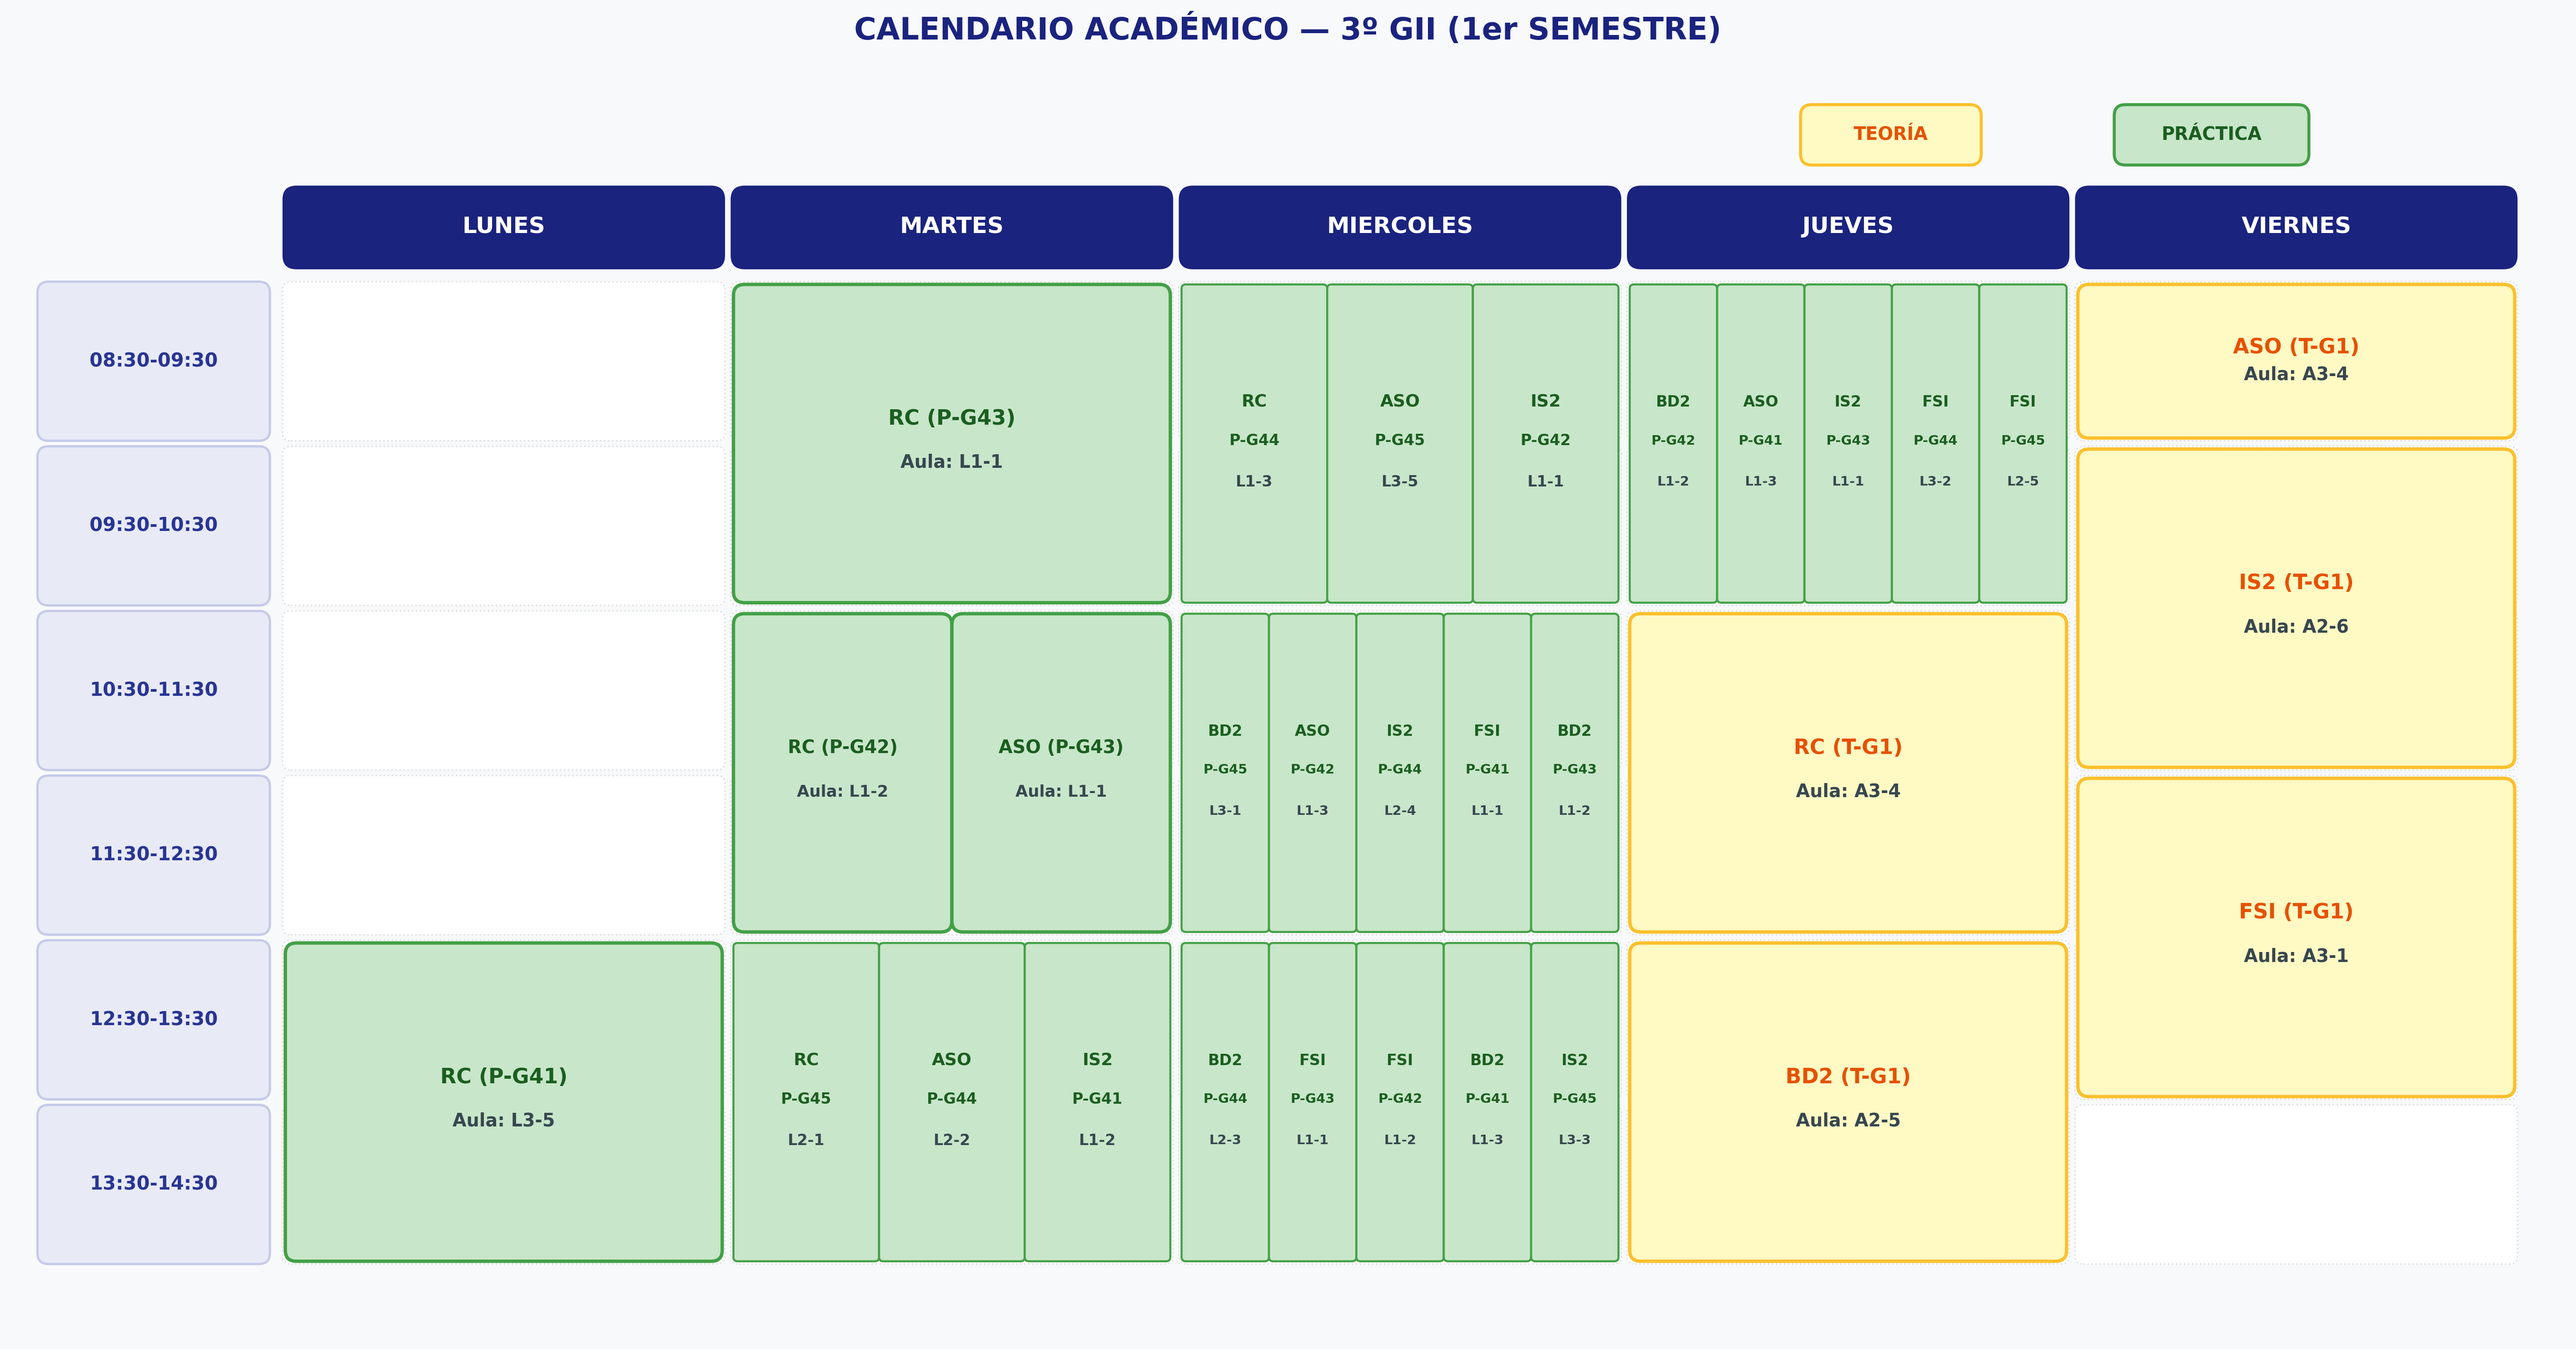
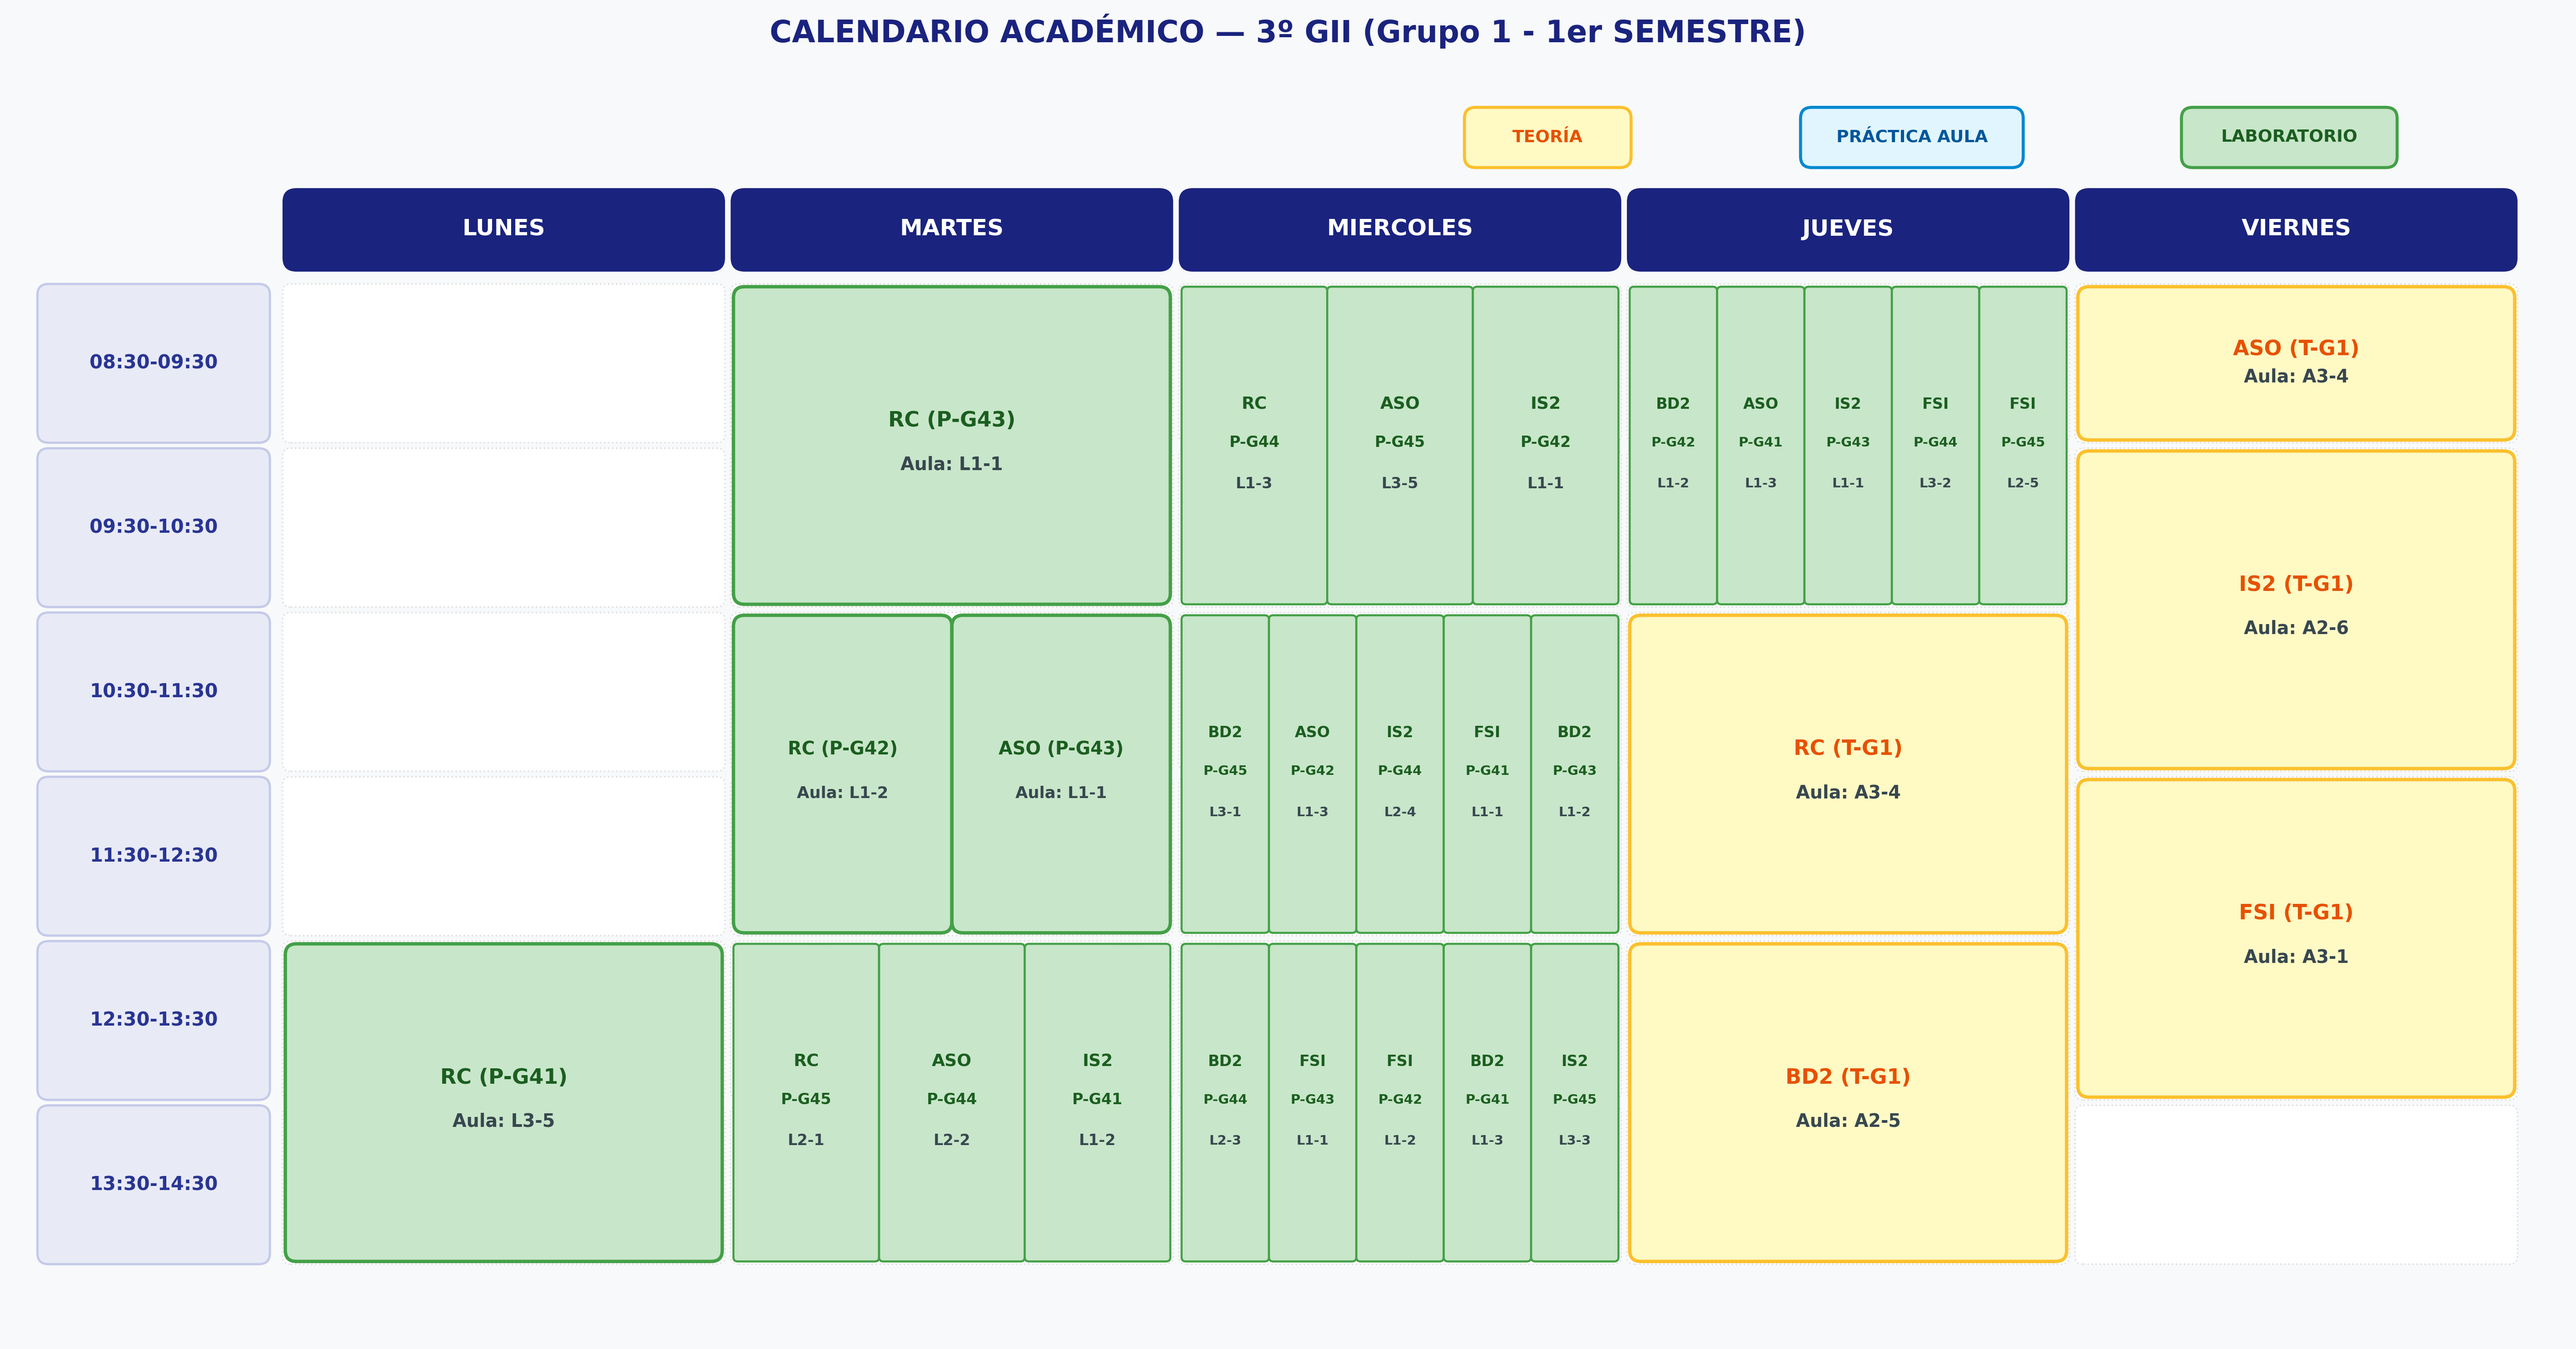
Anadir soporte de curso y grupo_principal con leyenda tricolor (Teoria, Aula, Lab)

diff --git a/src/visualizador.py b/src/visualizador.py
@@ -13,12 +13,17 @@ def exportar_horario_png(df_resultado, ruta_salida="horario_3GII_1er.png", titul
     dias = ["Lunes", "Martes", "Miercoles", "Jueves", "Viernes"]
     horas = ["08:30-09:30", "09:30-10:30", "10:30-11:30", "11:30-12:30", "12:30-13:30", "13:30-14:30"]
 
-    # Diferenciación visual Teoría vs Práctica (estilo oficial EII)
+    # Diferenciación visual: Teoría (Amarillo), Práctica de Aula (Azul), Laboratorio (Verde)
     estilo_tipo = {
         "teoria": {
             "bg": "#FFF9C4",      # Amarillo pastel
             "border": "#FBC02D",  # Dorado
             "text": "#E65100"     # Ámbar / naranja
+        },
+        "problemas": {
+            "bg": "#E1F5FE",      # Azul pastel
+            "border": "#0288D1",  # Azul medio
+            "text": "#01579B"     # Azul marino oscuro
         },
         "practica": {
             "bg": "#C8E6C9",      # Verde pastel
@@ -137,9 +142,16 @@ def exportar_horario_png(df_resultado, ruta_salida="horario_3GII_1er.png", titul
         row_idx = ev["start_idx"]
         duracion = ev["duracion_num"]
         asig = ev["Asignatura"]
-        es_teoria = "teor" in str(ev["Tipo"]).lower()
-        tipo_clave = "teoria" if es_teoria else "practica"
-        tipo_tag = "T" if es_teoria else "P"
+        tipo_str = str(ev.get("Tipo", "")).strip().lower()
+        if "teor" in tipo_str:
+            tipo_clave = "teoria"
+            tipo_tag = "T"
+        elif "prob" in tipo_str or "aula" in tipo_str or "ejer" in tipo_str or "pa" in tipo_str:
+            tipo_clave = "problemas"
+            tipo_tag = "PA"
+        else:
+            tipo_clave = "practica"
+            tipo_tag = "P"
         grupo = f"G{ev['Grupo']}"
         aula = ev["Aula"]
 
@@ -203,30 +215,42 @@ def exportar_horario_png(df_resultado, ruta_salida="horario_3GII_1er.png", titul
                 ax.text(cx, cy - 0.20, aula, ha="center", va="center",
                         color="#37474F", fontsize=f_sub - 0.5, fontweight="bold")
 
-    # 5. Leyenda en la parte superior derecha
+    # 5. Leyenda en la parte superior derecha (3 modalidades oficiales EII)
     leyenda_y = len(horas) * row_height + y_offset + 0.85
 
-    box_t = patches.FancyBboxPatch((x_offset + 3.4 * col_width, leyenda_y), 1.25, 0.40,
+    # Caja 1: Teoría
+    box_t = patches.FancyBboxPatch((x_offset + 2.65 * col_width, leyenda_y), 1.15, 0.40,
                                   boxstyle="round,pad=0.02,rounding_size=0.08",
                                   facecolor=estilo_tipo["teoria"]["bg"], edgecolor=estilo_tipo["teoria"]["border"], linewidth=1.6)
     ax.add_patch(box_t)
-    ax.text(x_offset + 3.4 * col_width + 0.625, leyenda_y + 0.20, "TEORÍA",
-            ha="center", va="center", color=estilo_tipo["teoria"]["text"], fontsize=9.5, fontweight="bold")
+    ax.text(x_offset + 2.65 * col_width + 0.575, leyenda_y + 0.20, "TEORÍA",
+            ha="center", va="center", color=estilo_tipo["teoria"]["text"], fontsize=9.0, fontweight="bold")
 
-    box_p = patches.FancyBboxPatch((x_offset + 4.1 * col_width, leyenda_y), 1.35, 0.40,
+    # Caja 2: Práctica de Aula / Problemas
+    box_a = patches.FancyBboxPatch((x_offset + 3.40 * col_width, leyenda_y), 1.55, 0.40,
+                                  boxstyle="round,pad=0.02,rounding_size=0.08",
+                                  facecolor=estilo_tipo["problemas"]["bg"], edgecolor=estilo_tipo["problemas"]["border"], linewidth=1.6)
+    ax.add_patch(box_a)
+    ax.text(x_offset + 3.40 * col_width + 0.775, leyenda_y + 0.20, "PRÁCTICA AULA",
+            ha="center", va="center", color=estilo_tipo["problemas"]["text"], fontsize=9.0, fontweight="bold")
+
+    # Caja 3: Laboratorio
+    box_p = patches.FancyBboxPatch((x_offset + 4.25 * col_width, leyenda_y), 1.50, 0.40,
                                   boxstyle="round,pad=0.02,rounding_size=0.08",
                                   facecolor=estilo_tipo["practica"]["bg"], edgecolor=estilo_tipo["practica"]["border"], linewidth=1.6)
     ax.add_patch(box_p)
-    ax.text(x_offset + 4.1 * col_width + 0.675, leyenda_y + 0.20, "PRÁCTICA",
-            ha="center", va="center", color=estilo_tipo["practica"]["text"], fontsize=9.5, fontweight="bold")
+    ax.text(x_offset + 4.25 * col_width + 0.750, leyenda_y + 0.20, "LABORATORIO",
+            ha="center", va="center", color=estilo_tipo["practica"]["text"], fontsize=9.0, fontweight="bold")
 
     ax.set_xlim(0, x_offset + len(dias) * col_width + 0.3)
     ax.set_ylim(0, len(horas) * row_height + y_offset + 1.4)
     ax.axis("off")
 
     if titulo is None:
+        c_val = df_resultado["Curso"].iloc[0] if "Curso" in df_resultado.columns else 3
+        gp_val = df_resultado["GrupoPrincipal"].iloc[0] if "GrupoPrincipal" in df_resultado.columns else 1
         sem_str = "2º SEMESTRE" if ("2do" in ruta_salida or "_2" in ruta_salida) else "1er SEMESTRE"
-        titulo = f"CALENDARIO ACADÉMICO — 3º GII ({sem_str})"
+        titulo = f"CALENDARIO ACADÉMICO — {c_val}º GII (Grupo {gp_val} - {sem_str})"
 
     plt.title(titulo, fontsize=16, fontweight="bold", pad=25, color="#1A237E")
     plt.tight_layout()

diff --git a/src/modelo_base.py b/src/modelo_base.py
@@ -13,7 +13,7 @@ from restricciones import (
 from visualizador import exportar_horario_png
 
 
-def modelo_base(semestre=1):
+def modelo_base(semestre=1, curso=3, grupo_principal=1):
     # 1. Definir el horizonte temporal semanal (30 franjas horarias)
     dias = ["Lunes", "Martes", "Miercoles", "Jueves", "Viernes"]
     horas_por_dia = 6  # 6 franjas por día: de 08:30 a 14:30
@@ -29,12 +29,16 @@ def modelo_base(semestre=1):
     ruta_clases = "datos/clases.csv"
     df_clases = pd.read_csv(ruta_clases)
 
-    # Filtrar por semestre si existe la columna
-    if "semestre" in df_clases.columns:
+    # Filtrar por curso, semestre y grupo_principal si existen las columnas
+    if "curso" in df_clases.columns and curso is not None:
+        df_clases = df_clases[df_clases["curso"] == curso].copy()
+    if "semestre" in df_clases.columns and semestre is not None:
         df_clases = df_clases[df_clases["semestre"] == semestre].copy()
-        print(f"Cargadas con exito {len(df_clases)} sesiones del Semestre {semestre} desde '{ruta_clases}'.")
-    else:
-        print(f"Cargadas con exito {len(df_clases)} sesiones desde '{ruta_clases}'.")
+    if "grupo_principal" in df_clases.columns and grupo_principal is not None:
+        df_clases = df_clases[df_clases["grupo_principal"] == grupo_principal].copy()
+
+    filtro_info = f"Curso {curso} | Semestre {semestre}" + (f" | Grupo {grupo_principal}" if grupo_principal is not None else "")
+    print(f"Cargadas con exito {len(df_clases)} sesiones ({filtro_info}) desde '{ruta_clases}'.")
 
     df_aulas = pd.read_csv("datos/aulas.csv")
     print(f"Sesiones cargadas: {len(df_clases)} | Aulas disponibles: {len(df_aulas)}")
@@ -122,15 +126,24 @@ def modelo_base(semestre=1):
                 "Hora": horas_etiquetas[hora_idx],
                 "Duracion": f"{row['duracion_horas']}h",
                 "Aula": aula_elegida,
-                "Profesor": row["profesor"]
+                "Profesor": row["profesor"],
+                "Curso": row.get("curso", curso),
+                "GrupoPrincipal": row.get("grupo_principal", grupo_principal)
             })
 
         # Ordenamos numéricamente por slot (de 0 a 29)
         df_resultado = pd.DataFrame(asignaciones).sort_values(by="Slot")
-        print(df_resultado.drop(columns=["Slot"]).to_string(index=False))
+        cols_mostrar = [c for c in ["Sesion", "Asignatura", "Tipo", "Grupo", "Dia", "Hora", "Duracion", "Aula", "Profesor"] if c in df_resultado.columns]
+        print(df_resultado[cols_mostrar].to_string(index=False))
 
-        # Generar el PNG y abrirlo al terminar
-        nombre_salida = f"horario_3GII_{semestre}er.png" if semestre == 1 else f"horario_3GII_{semestre}do.png"
+        # Generar el PNG con nomenclatura adaptada al curso y grupo
+        if curso == 3 and (grupo_principal is None or grupo_principal == 1):
+            nombre_salida = f"horario_3GII_{semestre}er.png" if semestre == 1 else f"horario_3GII_{semestre}do.png"
+        else:
+            sem_sufijo = "1er" if semestre == 1 else "2do"
+            gp_sufijo = f"_G{grupo_principal}" if grupo_principal is not None else ""
+            nombre_salida = f"horario_{curso}GII{gp_sufijo}_{sem_sufijo}.png"
+
         exportar_horario_png(df_resultado, ruta_salida=nombre_salida, abrir_al_terminar=False)
         return df_resultado
     else:
